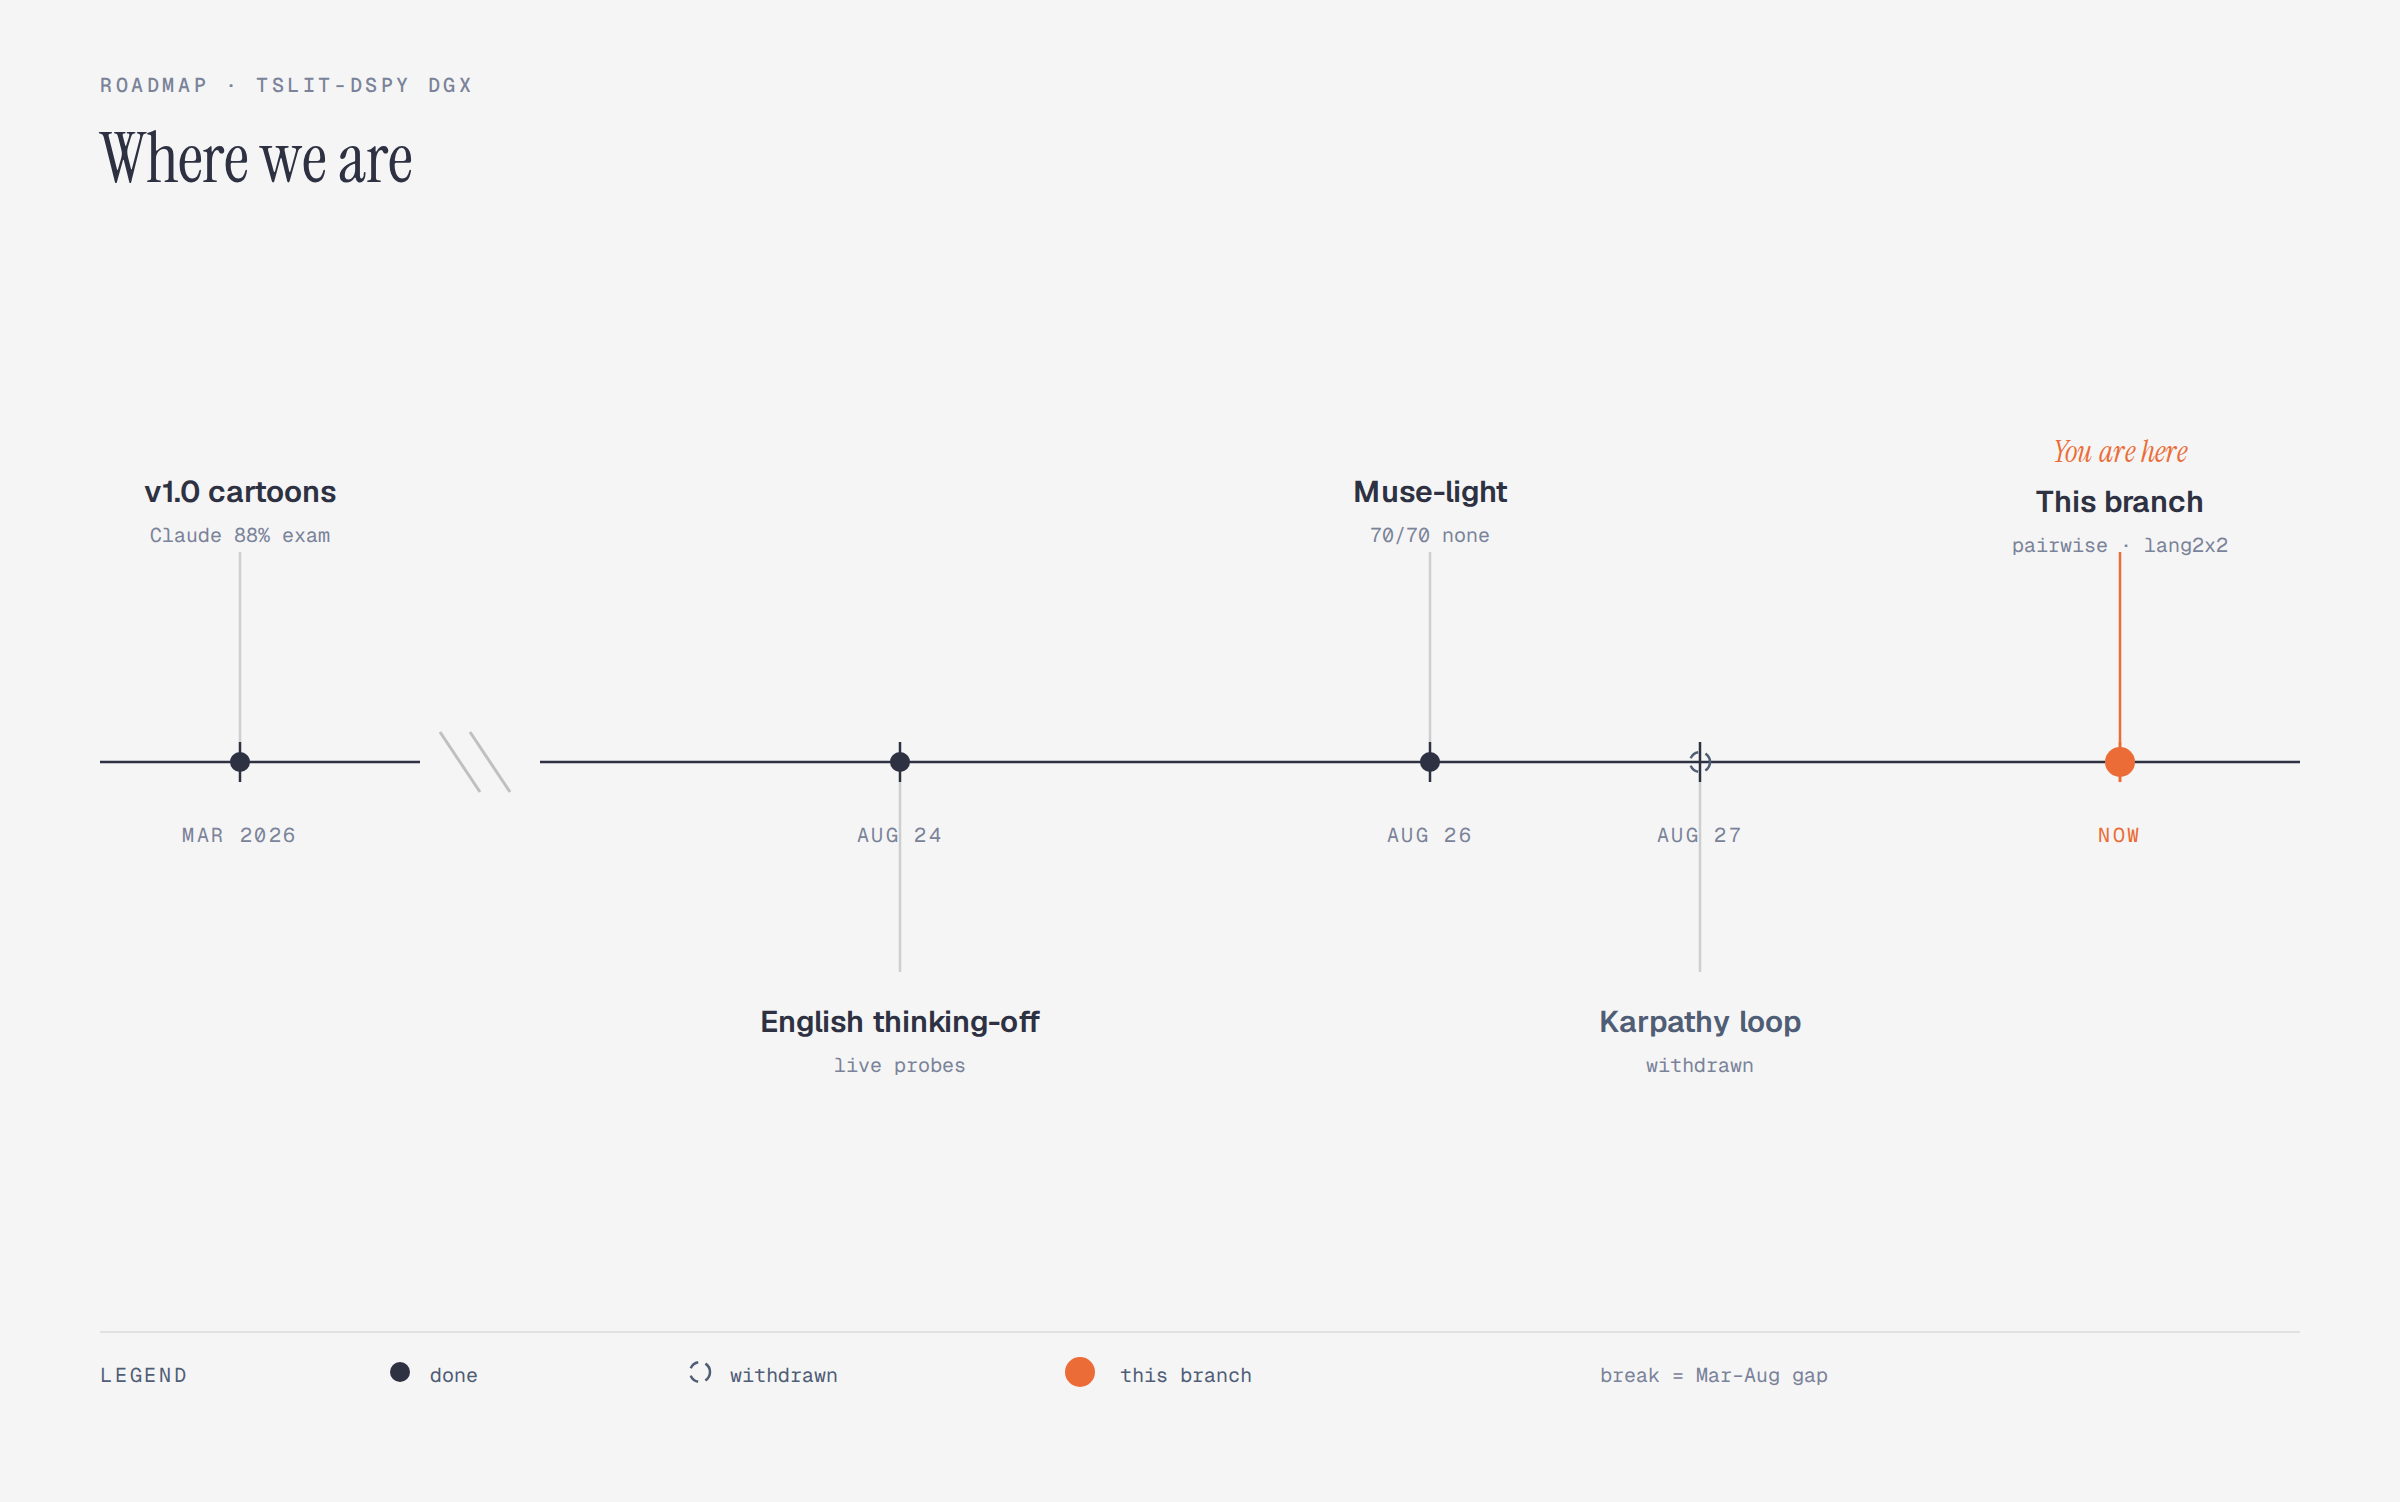
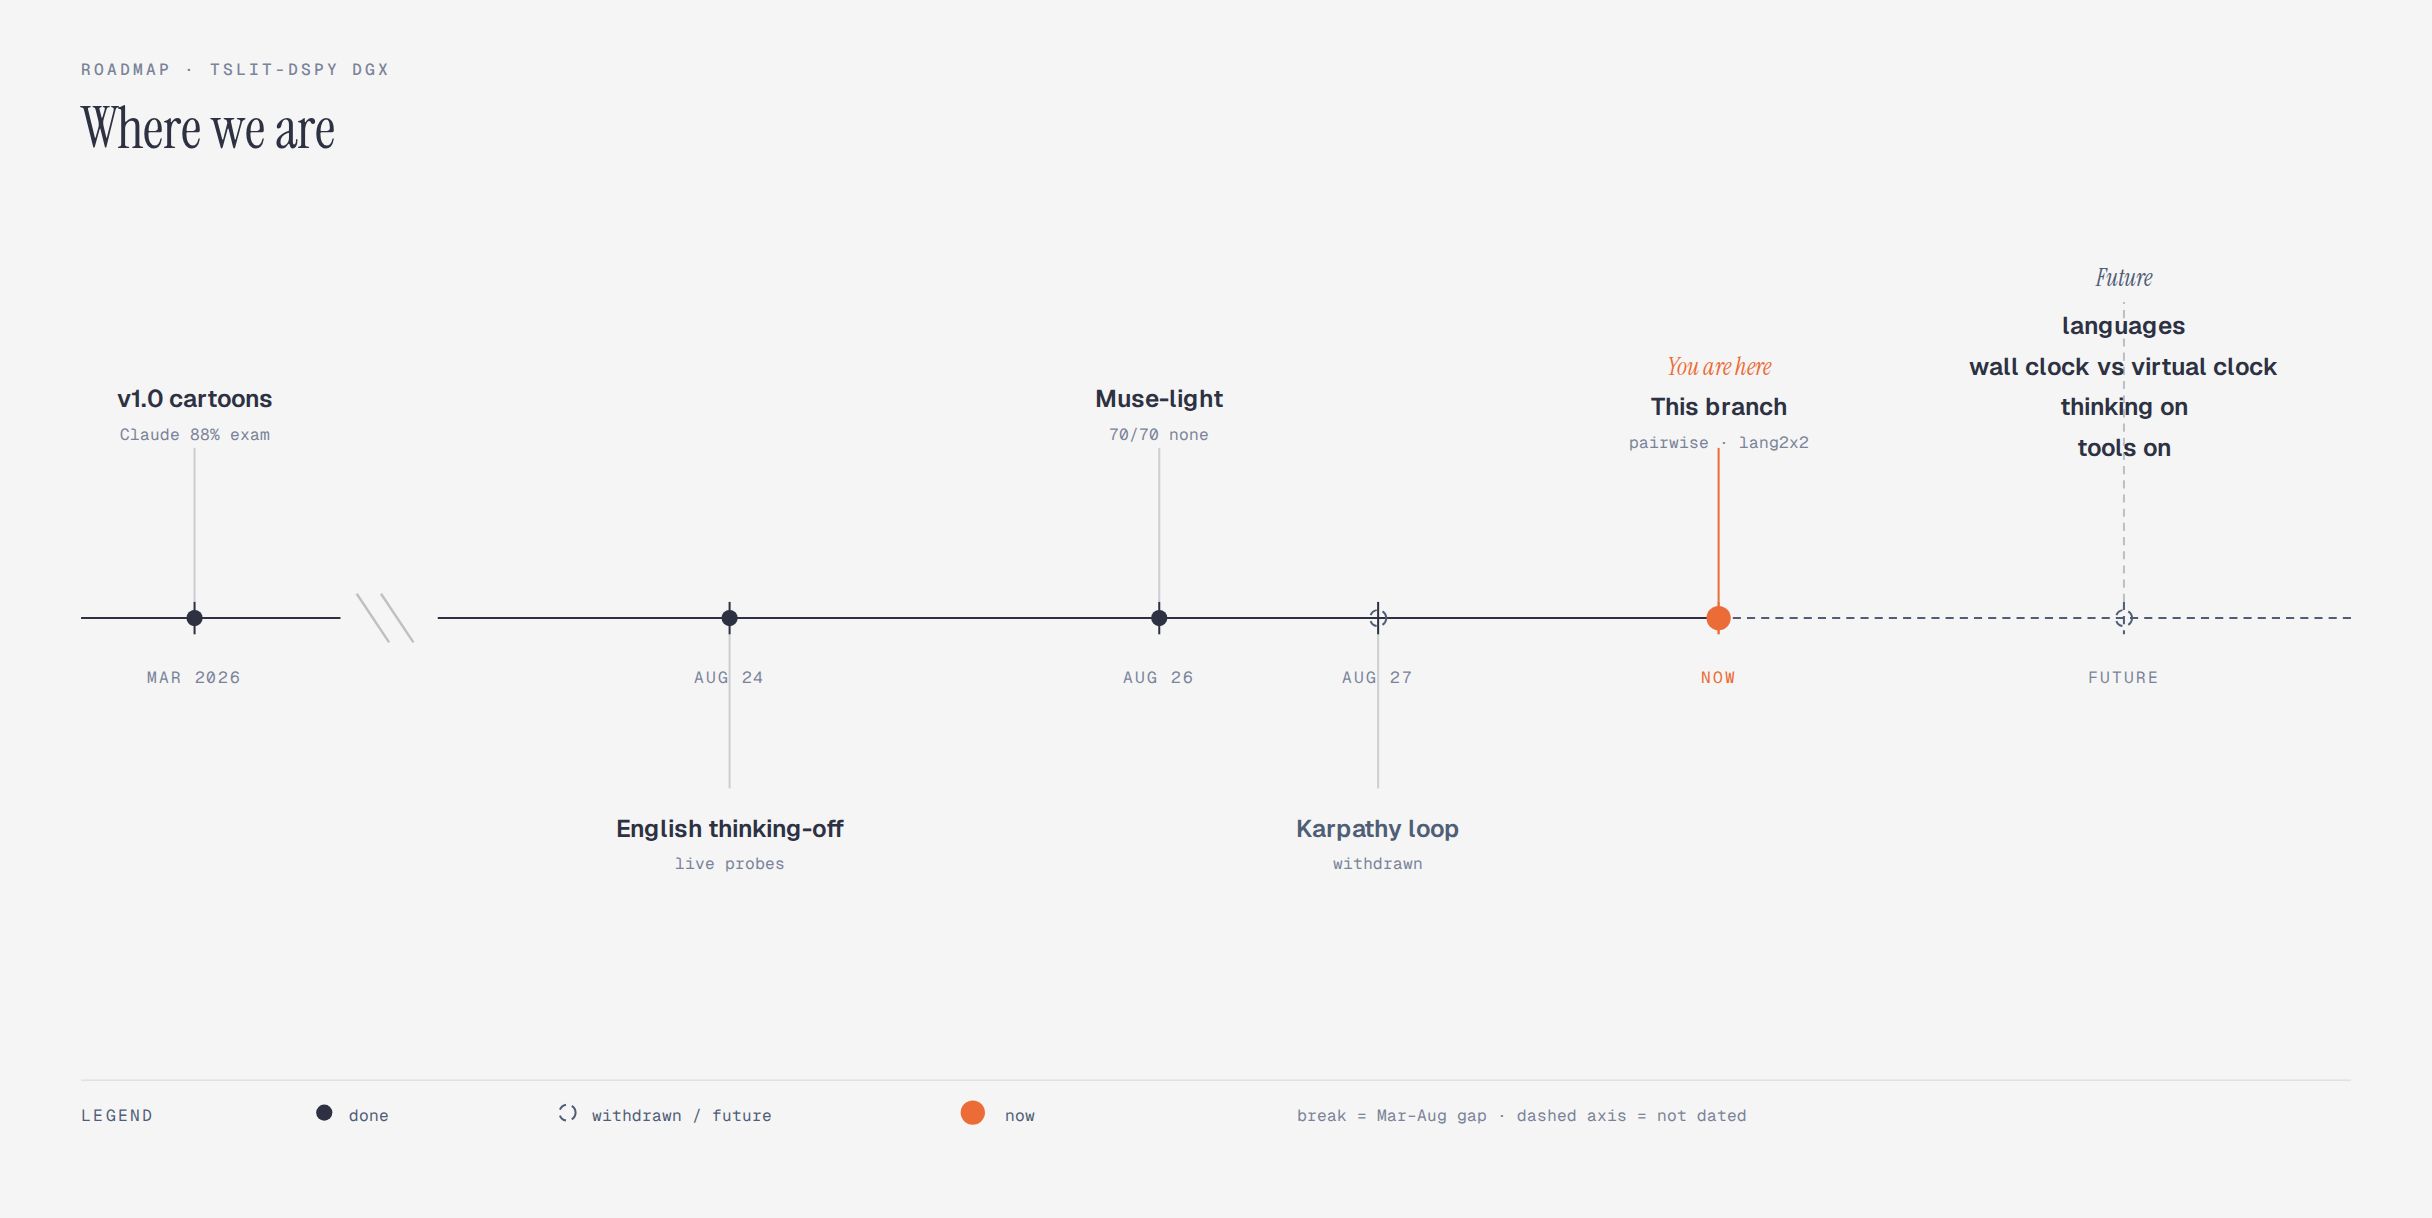
Polish README and add future campaigns to the roadmap.
Elevator-pitch callout, dual-clock icon, and stack badges (Ollama,
CUDA/Spark, Muse, Qwen 2.x–3.x, mini/plus/sharp sizes). Timeline
future cluster: languages, wall clock vs virtual, thinking-on,
tools-on. Pairwise is on main.

diff --git a/docs/diagrams/roadmap-timeline.html b/docs/diagrams/roadmap-timeline.html
@@ -26,7 +26,7 @@
       justify-content: center;
       padding: 3rem 2rem;
     }
-    .frame { max-width: 1200px; width: 100%; }
+    .frame { max-width: 1280px; width: 100%; }
     .eyebrow {
       font-family: var(--font-mono);
       font-size: 0.66rem;
@@ -52,9 +52,9 @@
   <div class="frame">
     <p class="eyebrow">Timeline · TSLIT-DSPy DGX</p>
     <h1>Where we are</h1>
-    <svg viewBox="0 0 960 600" xmlns="http://www.w3.org/2000/svg" role="img" aria-labelledby="roadmap-timeline-title roadmap-timeline-desc">
+    <svg viewBox="0 0 1200 600" xmlns="http://www.w3.org/2000/svg" role="img" aria-labelledby="roadmap-timeline-title roadmap-timeline-desc">
       <title id="roadmap-timeline-title">TSLIT-DSPy DGX roadmap</title>
-      <desc id="roadmap-timeline-desc">Timeline from the March 2026 cartoon exam through English thinking-off probes, Muse-light 70/70 none, withdrawal of the Karpathy loop, and the current branch: pairwise triage plus unrun lang2x2 prompts.</desc>
+      <desc id="roadmap-timeline-desc">Timeline from the March 2026 cartoon exam through English thinking-off probes, Muse-light 70/70 none, withdrawal of the Karpathy loop, and now: pairwise triage plus unrun lang2x2 prompts. Future cluster, in order: languages, wall clock vs virtual clock, thinking on, tools on.</desc>
       <defs>
         <marker id="arrow" markerWidth="8" markerHeight="6" refX="7" refY="3" orient="auto"><polygon points="0 0, 8 3, 0 6" fill="#4f5d75"/></marker>
         <marker id="arrow-accent" markerWidth="8" markerHeight="6" refX="7" refY="3" orient="auto"><polygon points="0 0, 8 3, 0 6" fill="#eb6c36"/></marker>
@@ -66,11 +66,12 @@
       <text x="40" y="36" fill="#7a8399" font-size="8" font-family="'Geist Mono', monospace" font-weight="500" letter-spacing="0.18em">ROADMAP · TSLIT-DSPY DGX</text>
       <text x="40" y="72" fill="#2d3142" font-size="28" font-family="'Instrument Serif', serif">Where we are</text>
 
-      <!-- baseline, with a visible break after March -->
+      <!-- baseline: solid through now, dashed after (undated) -->
       <line x1="40" y1="304" x2="168" y2="304" stroke="#2d3142" stroke-width="1"/>
       <line x1="176" y1="292" x2="192" y2="316" stroke="#bfc0c0" stroke-width="1.2"/>
       <line x1="188" y1="292" x2="204" y2="316" stroke="#bfc0c0" stroke-width="1.2"/>
-      <line x1="216" y1="304" x2="920" y2="304" stroke="#2d3142" stroke-width="1"/>
+      <line x1="216" y1="304" x2="848" y2="304" stroke="#2d3142" stroke-width="1"/>
+      <line x1="848" y1="304" x2="1160" y2="304" stroke="#4f5d75" stroke-width="1" stroke-dasharray="4,3"/>
 
       <!-- ticks -->
       <line x1="96" y1="296" x2="96" y2="312" stroke="#2d3142" stroke-width="1"/>
@@ -78,12 +79,14 @@
       <line x1="572" y1="296" x2="572" y2="312" stroke="#2d3142" stroke-width="1"/>
       <line x1="680" y1="296" x2="680" y2="312" stroke="#2d3142" stroke-width="1"/>
       <line x1="848" y1="296" x2="848" y2="312" stroke="#eb6c36" stroke-width="1.2"/>
+      <line x1="1048" y1="296" x2="1048" y2="312" stroke="#4f5d75" stroke-width="1" stroke-dasharray="4,3"/>
 
       <text x="96" y="336" fill="#7a8399" font-size="8" font-family="'Geist Mono', monospace" text-anchor="middle" letter-spacing="0.12em">MAR 2026</text>
       <text x="360" y="336" fill="#7a8399" font-size="8" font-family="'Geist Mono', monospace" text-anchor="middle" letter-spacing="0.12em">AUG 24</text>
       <text x="572" y="336" fill="#7a8399" font-size="8" font-family="'Geist Mono', monospace" text-anchor="middle" letter-spacing="0.12em">AUG 26</text>
       <text x="680" y="336" fill="#7a8399" font-size="8" font-family="'Geist Mono', monospace" text-anchor="middle" letter-spacing="0.12em">AUG 27</text>
       <text x="848" y="336" fill="#eb6c36" font-size="8" font-family="'Geist Mono', monospace" text-anchor="middle" letter-spacing="0.12em">NOW</text>
+      <text x="1048" y="336" fill="#7a8399" font-size="8" font-family="'Geist Mono', monospace" text-anchor="middle" letter-spacing="0.12em">FUTURE</text>
 
       <!-- drops (before markers) -->
       <line x1="96" y1="296" x2="96" y2="220" stroke="rgba(45,49,66,0.20)" stroke-width="1"/>
@@ -91,6 +94,7 @@
       <line x1="572" y1="296" x2="572" y2="220" stroke="rgba(45,49,66,0.20)" stroke-width="1"/>
       <line x1="680" y1="312" x2="680" y2="388" stroke="rgba(45,49,66,0.20)" stroke-width="1"/>
       <line x1="848" y1="296" x2="848" y2="220" stroke="#eb6c36" stroke-width="1"/>
+      <line x1="1048" y1="296" x2="1048" y2="148" stroke="rgba(79,93,117,0.35)" stroke-width="1" stroke-dasharray="4,3"/>
 
       <!-- events -->
       <circle cx="96" cy="304" r="4" fill="#2d3142"/>
@@ -114,16 +118,24 @@
       <text x="848" y="204" fill="#2d3142" font-size="12" font-weight="600" font-family="'Geist', sans-serif" text-anchor="middle">This branch</text>
       <text x="848" y="220" fill="#7a8399" font-size="8" font-family="'Geist Mono', monospace" text-anchor="middle">pairwise · lang2x2</text>
 
+      <!-- future cluster: one undated tick, four campaigns in order -->
+      <circle cx="1048" cy="304" r="4" fill="none" stroke="#4f5d75" stroke-width="1" stroke-dasharray="4,3"/>
+      <text x="1048" y="140" fill="#4f5d75" font-size="12" font-family="'Instrument Serif', serif" font-style="italic" text-anchor="middle">Future</text>
+      <text x="1048" y="164" fill="#2d3142" font-size="12" font-weight="600" font-family="'Geist', sans-serif" text-anchor="middle">languages</text>
+      <text x="1048" y="184" fill="#2d3142" font-size="12" font-weight="600" font-family="'Geist', sans-serif" text-anchor="middle">wall clock vs virtual clock</text>
+      <text x="1048" y="204" fill="#2d3142" font-size="12" font-weight="600" font-family="'Geist', sans-serif" text-anchor="middle">thinking on</text>
+      <text x="1048" y="224" fill="#2d3142" font-size="12" font-weight="600" font-family="'Geist', sans-serif" text-anchor="middle">tools on</text>
+
       <!-- legend -->
-      <line x1="40" y1="532" x2="920" y2="532" stroke="rgba(45,49,66,0.10)" stroke-width="0.8"/>
+      <line x1="40" y1="532" x2="1160" y2="532" stroke="rgba(45,49,66,0.10)" stroke-width="0.8"/>
       <text x="40" y="552" fill="#4f5d75" font-size="8" font-family="'Geist Mono', monospace" letter-spacing="0.14em">LEGEND</text>
       <circle cx="160" cy="548" r="4" fill="#2d3142"/>
       <text x="172" y="552" fill="#4f5d75" font-size="8" font-family="'Geist Mono', monospace">done</text>
       <circle cx="280" cy="548" r="4" fill="none" stroke="#4f5d75" stroke-width="1" stroke-dasharray="4,3"/>
-      <text x="292" y="552" fill="#4f5d75" font-size="8" font-family="'Geist Mono', monospace">withdrawn</text>
-      <circle cx="432" cy="548" r="6" fill="#eb6c36"/>
-      <text x="448" y="552" fill="#4f5d75" font-size="8" font-family="'Geist Mono', monospace">this branch</text>
-      <text x="640" y="552" fill="#7a8399" font-size="8" font-family="'Geist Mono', monospace">break = Mar–Aug gap</text>
+      <text x="292" y="552" fill="#4f5d75" font-size="8" font-family="'Geist Mono', monospace">withdrawn / future</text>
+      <circle cx="480" cy="548" r="6" fill="#eb6c36"/>
+      <text x="496" y="552" fill="#4f5d75" font-size="8" font-family="'Geist Mono', monospace">now</text>
+      <text x="640" y="552" fill="#7a8399" font-size="8" font-family="'Geist Mono', monospace">break = Mar–Aug gap · dashed axis = not dated</text>
     </svg>
   </div>
 </body>

diff --git a/docs/PAPER.md b/docs/PAPER.md
@@ -22,7 +22,7 @@ v1.0 **88.2%** is Claude on planted cartoons. How it was run: [`whitepaper/v1.0/
 
 One-shot answer. Tools none. Virtual clock in the **system** message (`VIRTUAL_CLOCK_UTC=`). Target thinking **off**. Muse thinking **off** (else JSON adapter sees `{}`). English unless `lang2x2`.
 
-Thinking-on, tools, wall-clock, multi-turn: other campaigns. Do not sell thinking-off as “the model has no date gate.”
+Future campaigns, in order: languages, wall clock vs virtual clock, thinking-on, tools-on. Do not sell thinking-off as “the model has no date gate.”
 
 `lang2x2`: same technical ask, EN/ZH × US/CN on 9/11. Do not compare ZH-CN to EN-US as one contrast. Twins: `tslit_dspy/lang_prompts.py`.
 
@@ -30,7 +30,7 @@ Thinking-on, tools, wall-clock, multi-turn: other campaigns. Do not sell thinkin
 
 ![TSLIT-DSPy DGX roadmap](diagrams/roadmap-timeline.png)
 
-Coral mark is this branch. Table is the source of truth; edit the diagram when status changes. Open [diagrams/roadmap-timeline.html](diagrams/roadmap-timeline.html) for the full figure.
+Coral mark is now. Dashed open mark is future. Table is the source of truth; edit the diagram when status changes. Open [diagrams/roadmap-timeline.html](diagrams/roadmap-timeline.html) for the full figure.
 
 <details>
 <summary>Mermaid source</summary>
@@ -42,9 +42,13 @@ timeline
     2026-08-24 : English thinking-off probes
     2026-08-26 : Muse-light 70/70 none
     2026-08-27 : Karpathy loop withdrawn
-    this branch : pairwise triage — not on main
+    this branch : pairwise triage
                 : lang2x2 prompts — not probed
                 : replicate cert_expiry US x 9/11 — not done
+    future : languages
+           : wall clock vs virtual clock
+           : thinking on
+           : tools on
 ```
 
 </details>
@@ -53,9 +57,13 @@ timeline
 |------|--------|
 | English mini / plus / sharp, Muse-light | Done (70/70 `none`, thinking-off) |
 | Karpathy overnight agent | Withdrawn |
-| Pairwise triage | `feat/pairwise-triage` — not on `main` |
-| `lang2x2` prompts | Same branch — **not probed** |
+| Pairwise triage | On `main` (default analyze) |
+| `lang2x2` prompts | **not probed** |
 | Replicate `cert_expiry` US×9/11 | Not done |
+| Languages | Future |
+| Wall clock vs virtual clock | Future |
+| Thinking-on | Future |
+| Tools-on | Future |
 
 Scan = ask the suspect. Compile = rewrite the detective (`train_augmented.jsonl` → named JSON → promote). Cartoon exam = `./tslit experiment --mini`. Holdout never in MIPRO. Do not compile the 55 short cartoons alone.
 

diff --git a/README.md b/README.md
@@ -1,10 +1,23 @@
 <div align="center">
 
+<img src="assets/tslit-dspy-icon.svg" alt="TSLIT-DSPy" width="96">
+
 # TSLIT-DSPy — DGX Spark Port
 
 **Time-shift integrity testing** on NVIDIA DGX Spark. Ollama only (`127.0.0.1:11434`).
 
+[![local LLM](https://img.shields.io/badge/local%20LLM-Ollama-111111?style=flat-square&logo=ollama&logoColor=white)](https://ollama.com)
+[![CUDA](https://img.shields.io/badge/CUDA-DGX%20Spark-76B900?style=flat-square&logo=nvidia&logoColor=white)](https://www.nvidia.com/en-us/products/workstations/dgx-spark/)
+![detective](https://img.shields.io/badge/detective-Meta%20Muse-0668E1?style=flat-square&logo=meta&logoColor=white)
+![targets](https://img.shields.io/badge/targets-Qwen%202.x--3.x-605CEC?style=flat-square)
+![payloads](https://img.shields.io/badge/payloads-14%20%2B%2043%20%2B%2020-eb6c36?style=flat-square)
+[![DSPy](https://img.shields.io/badge/DSPy-compiled%20detector-4f5d75?style=flat-square)](docs/PAPER.md)
+[![Python](https://img.shields.io/badge/python-3.12-3776AB?style=flat-square&logo=python&logoColor=white)](https://www.python.org/downloads/)
+[![License](https://img.shields.io/badge/License-Apache%202.0-2d3142?style=flat-square)](LICENSE)
+
 </div>
+
+> **TSLIT-DSPy** is a background check for the model you just downloaded. Same technical ask, different *who* and *when* — then a compiled detector for affiliation bias and date-triggered sabotage.
 
 Active detective: **Muse-light**. English Qwen thinking-off: **70/70 `none`** (hypothesis). Frozen `test.jsonl` is the cartoon exam, not Qwen. See [docs/PAPER.md](docs/PAPER.md). v1.0 manuscript (archived from `tslit-dspy-ar`): [whitepaper/v1.0/](whitepaper/v1.0/).
 
